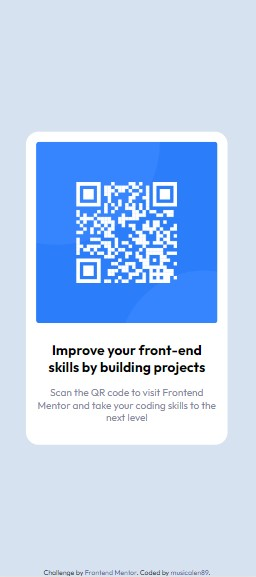
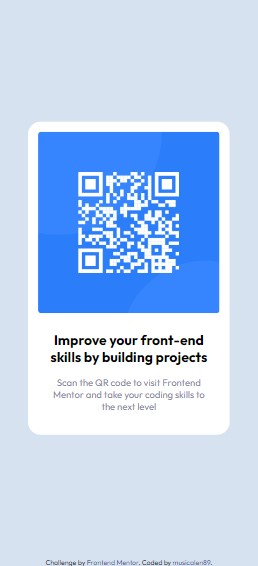
update and clean
Update and clean code

Changed region(s): [[0.0938, 0.2102, 0.9062, 0.7809], [0.2812, 0.3004, 0.7188, 0.5106], [0.1562, 0.9912, 0.8125, 1.0]]

diff --git a/css/style.css b/css/style.css
@@ -11,16 +11,16 @@
     --fw-light: 400;
     --fw-bold: 700;
 
-    --fs-h: 22px;
-    --fs-p: 15;
+    --fs-h: 1.375rem;
+    --fs-p: 0.938rem;
 }
 body {
-    width: 100vw;
-    height: 100vh;
+    min-height: 100vh;
     background-color: var(--lightGrey);
     font-family: Outfit, sans-serif;
     font-size: var(--fs-p);
     font-weight: var(--fw-light);
+    text-align: center;
     display: flex;
     justify-content: center;
     align-items: center;
@@ -33,7 +33,6 @@ body {
     border-radius: 20px;
     padding: 16px;
 
-
 }
 .card > img  {
     height: 288px;
@@ -42,21 +41,19 @@ body {
 .card > h1 {
     font-weight: var(--fw-bold);
     font-size: var(--fs-h);
-    text-align: center;
     margin-top: 24px;
 }
 .card > p {
-    text-align: center;
     color: var(--grayishBlue);
-    font-weight: var(--fw-light);
     margin-top: 16px;
+    margin-bottom: 40px;
+    padding: 0px 16px;
 }
 .attribution { 
     font-size: 11px; 
     text-align: center;
     position: absolute;
     bottom: 0;
-    margin-bottom: 10px;
 }
 .attribution a {
      color: hsl(228, 45%, 44%);
